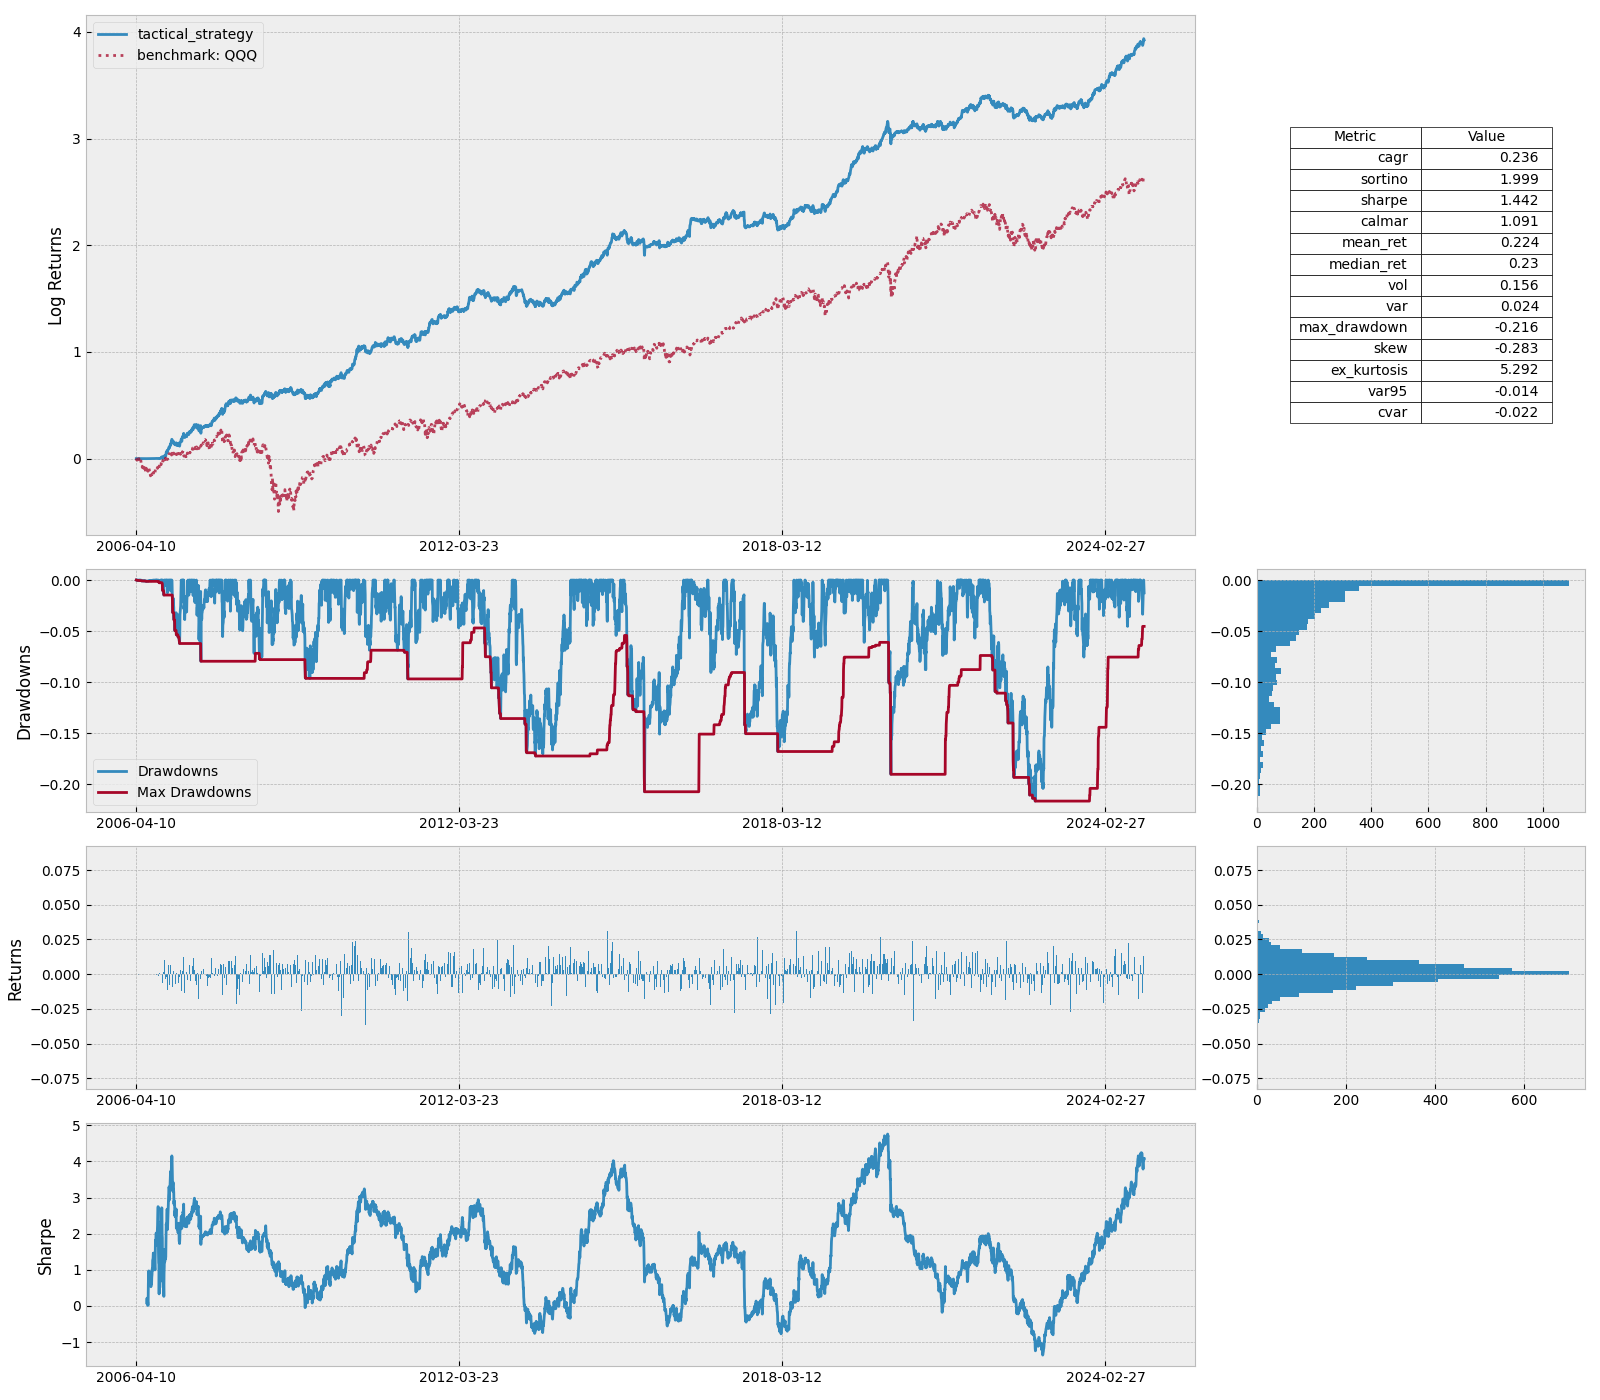
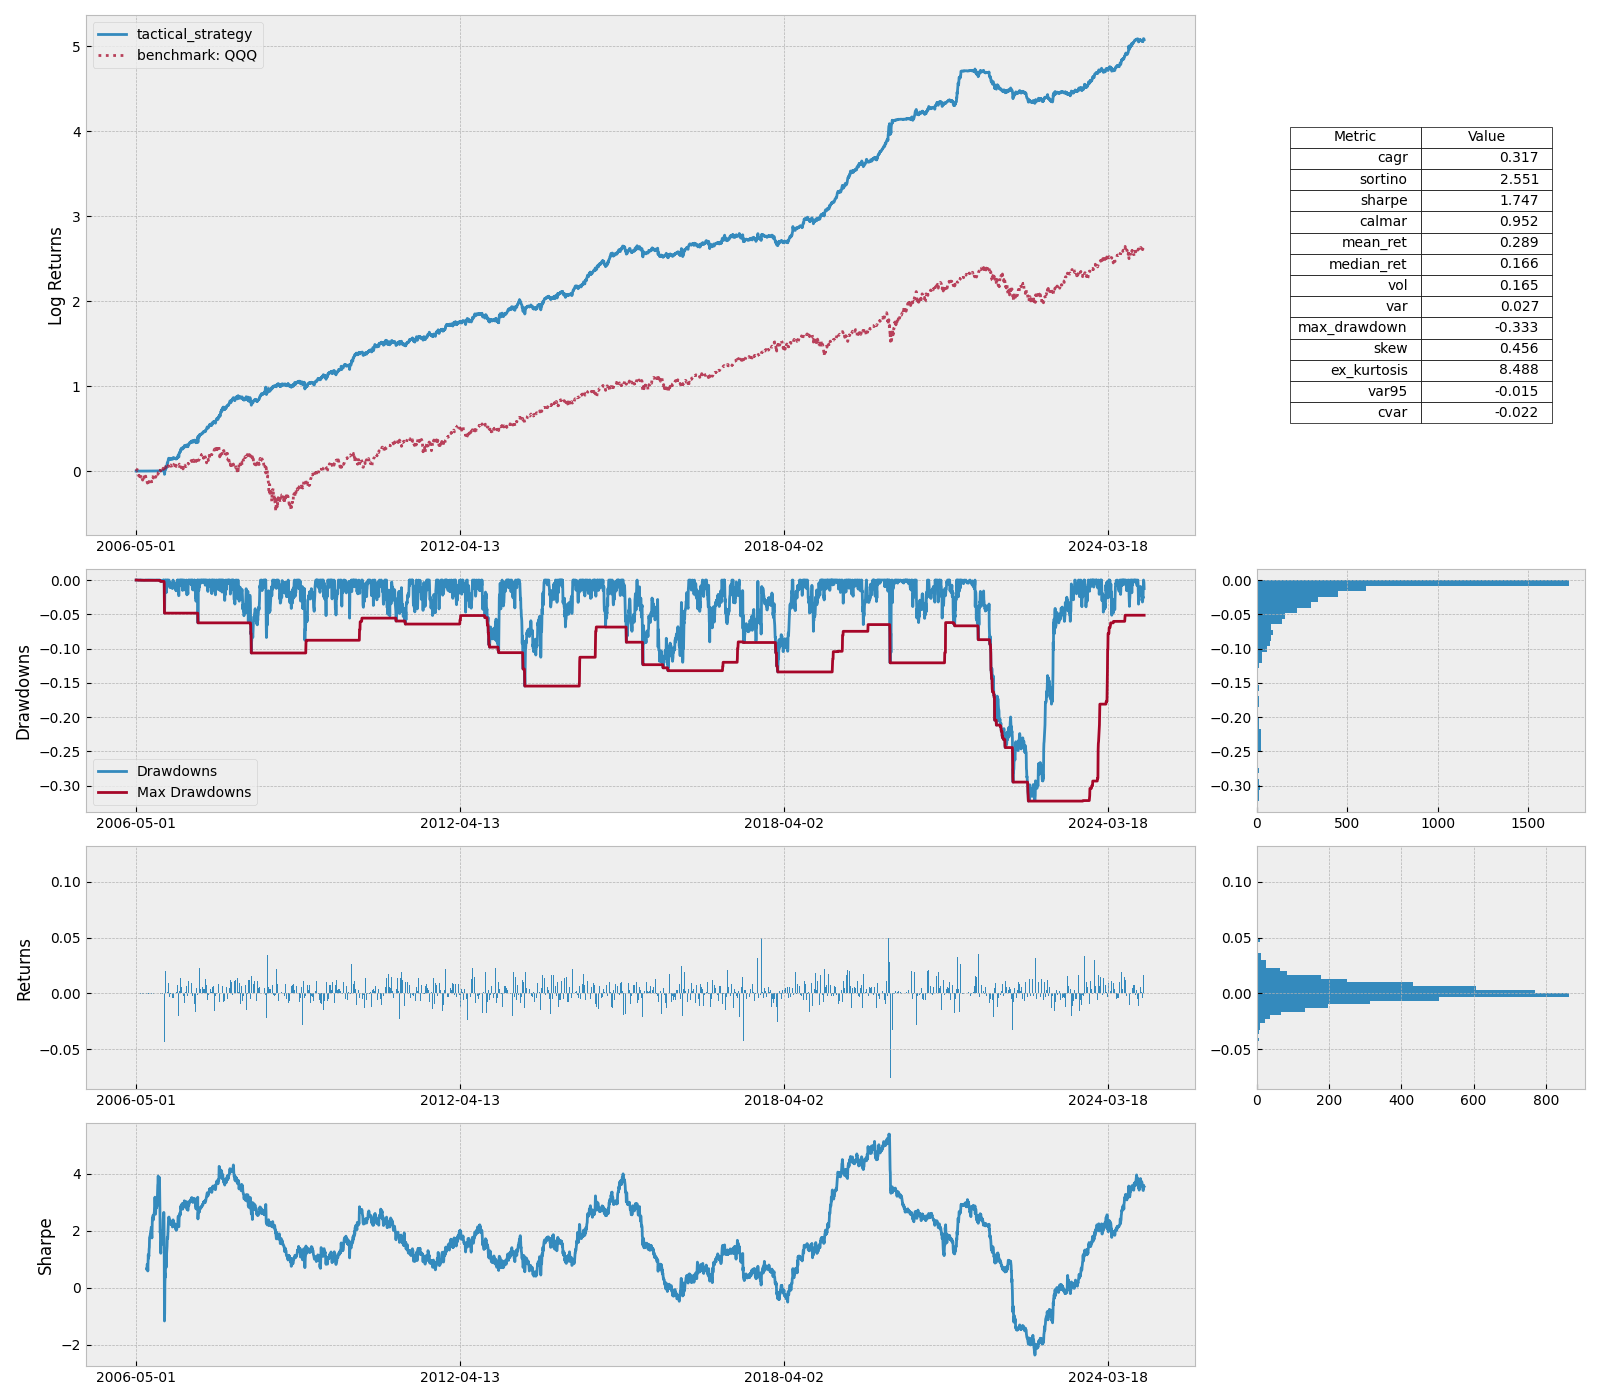
updates on portf opt mixture models learning

diff --git a/backtester/engine/functions/portfolio_optimization.py b/backtester/engine/functions/portfolio_optimization.py
@@ -79,25 +79,26 @@ class MeanVariance(PositioningMethod):
 
 class MixtureModelsMeanVariance(PositioningMethod):
     TRAIN_SIZE = .6
-    SEED = np.random.seed(1)
 
     def __init__(self, model_name: str = "hmm") -> None:
         super().__init__()
-        models_confs = {
-            "hmm": GaussianHMM(
-                n_components=2,
-                covariance_type="full",
-                algorithm="map",
-                random_state=self.SEED
-            ),
-            "gmm": GaussianMixture(
-                n_components=2,
-                covariance_type="full",
-                random_state=self.SEED
-            )
+        self.model_map = {"hmm": GaussianHMM, "gmm": GaussianMixture}
+
+        self.model_name = model_name
+        self.models_confs = {
+            "hmm": {
+                "n_components": 2,
+                "covariance_type": "full",
+                "algorithm": "map"
+            },
+            "gmm": {
+                "n_components": 2,
+                "covariance_type": "full"
+            }
         }
-        assert model_name in models_confs.keys(), f"Make sure model_name is in {models_confs.keys()}"
-        self.MODEL: GaussianHMM | GaussianMixture = models_confs[model_name]
+        assert model_name in self.models_confs.keys(), f"Make sure model_name is in {self.models_confs.keys()}"
+        # self.MODEL: GaussianHMM | GaussianMixture = model_map[model_name]
+        
 
     def get_strat_positions(
         self,
@@ -114,12 +115,16 @@ class MixtureModelsMeanVariance(PositioningMethod):
         forecasts_returns = forecasts
         if idx == 0:
             train_ret, self.ret = self.get_rets(retdf=retdf,trade_frequency=trade_frequency)
-            self.model = self.train(train_ret=train_ret)
+
             print("=============================================================== ")
             print(f" - Training window: {retdf.index[0]} - {retdf.index[self.TRAIN_ID]}")
             print(f" - Testing window: {retdf.index[self.TRAIN_ID+1]} - {retdf.index[-1]}")
-            print(f" - Regime prediction model: {self.model}")
+            print(f" - Regime prediction model: {self.model_map[self.model_name]}")
+            print("--------------------------------------------------------------- ")
+            
+            self.model = self.train(train_ret=train_ret)
             print("=============================================================== ")
+
             return np.zeros(len(forecasts))
         
         state = self.predict_states(model=self.model, ret=self.ret[(idx - 1):idx,:])
@@ -145,8 +150,19 @@ class MixtureModelsMeanVariance(PositioningMethod):
         return np.floor(positions)
     
     def train(self, train_ret: np.ndarray):
-        model = self.MODEL
-        return model.fit(X=train_ret)
+        models, scores = [], []
+        for s in range(10):
+            model = self.model_map[self.model_name](random_state=s,**self.models_confs[self.model_name])
+            model.fit(X=train_ret)
+            models.append(model)
+            scores.append(model.score(X=train_ret))
+
+            if isinstance(model, GaussianHMM): print(f'Converged: {model.monitor_.converged} --- Score: {scores[-1]}')
+            if isinstance(model, GaussianMixture): print(f'Score: {scores[-1]}')
+
+        model = models[np.argmax(scores)]
+        print(f'The best model had a score of {max(scores)}')
+        return model
 
     def predict_states(self, model: GaussianHMM | GaussianMixture, ret: np.ndarray) -> np.ndarray:
         return model.predict(X=ret)[0]

diff --git a/backtester/tactical.py b/backtester/tactical.py
@@ -23,13 +23,13 @@ class Tactical(BacktestEngine):
             date_range: DatetimeIndex | None = None, 
             trade_frequency: str | None = None, 
             day_of_week: str | None = None, 
-            portf_optimization: PositioningMethod = MixtureModelsMeanVariance(model_name="gmm"), 
+            portf_optimization: PositioningMethod = MixtureModelsMeanVariance(model_name="hmm"), 
             portfolio_vol: float = 0.2,
             max_leverage: float = 2, 
             min_leverage: float = 0, 
             benchmark: str | None = None
         ) -> None:
-        trade_frequency = "weekly"
+        trade_frequency = "monthly"
         super().__init__(insts, dfs, start, end, date_range, trade_frequency, day_of_week, portf_optimization, portfolio_vol, max_leverage, min_leverage, benchmark)
         
     def pre_compute(self,trade_range):

diff --git a/main.py b/main.py
@@ -30,8 +30,9 @@ def tactical_main():
 if __name__ == "__main__":
     tactical_strat = tactical_main()
     tactical_strat.run_simulation(use_vol_target=True)
-    tactical_strat.run_hypothesis_tests(num_decision_shuffles=100,strat_name="tactical_strategy")
+    # tactical_strat.run_hypothesis_tests(num_decision_shuffles=100,strat_name="tactical_strategy")
     tactical_strat.get_perf_stats(plot=True,show=False,strat_name="tactical_strategy",compare=True)
+    exit()
 
     vol_carry_strat = vol_carry_main()
     vol_carry_strat.run_simulation(use_vol_target=False)
